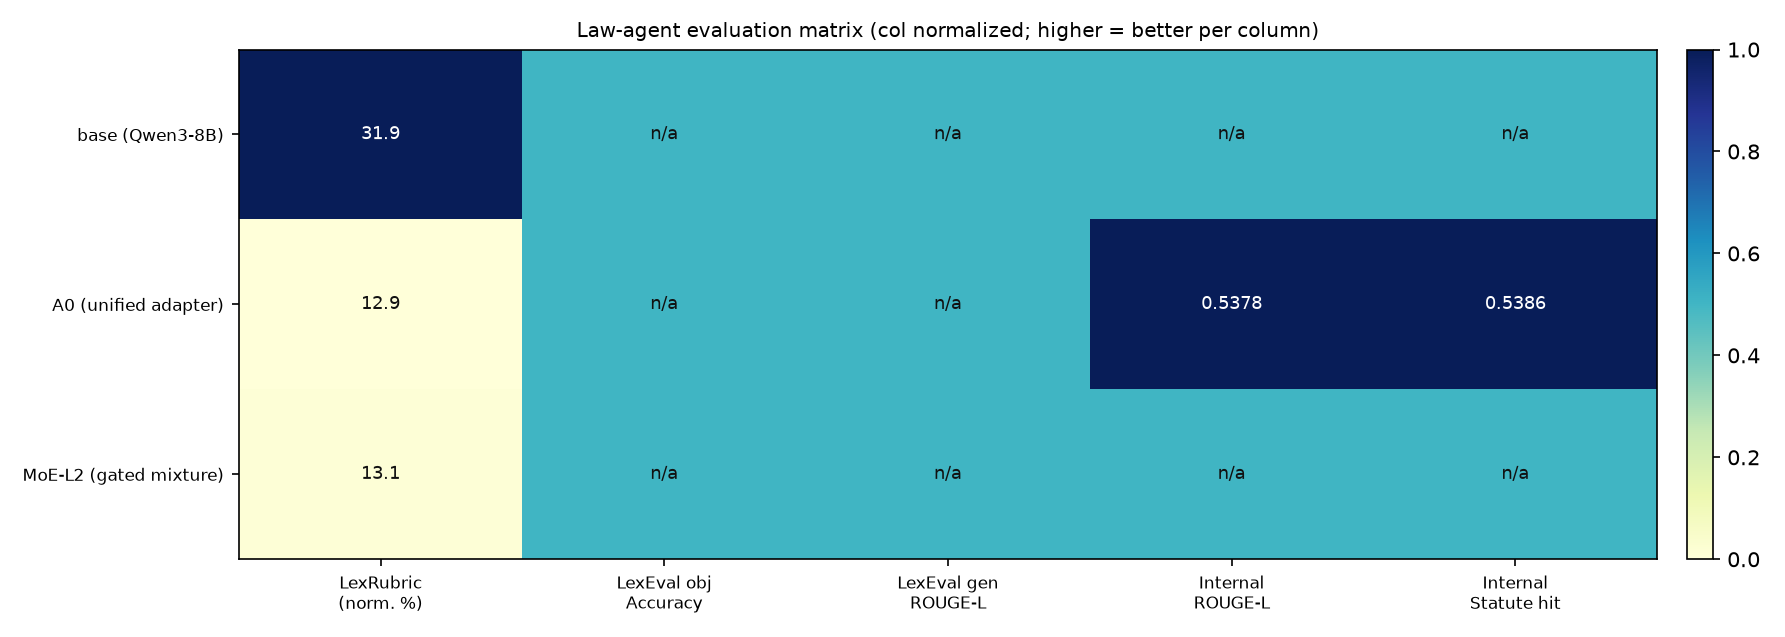
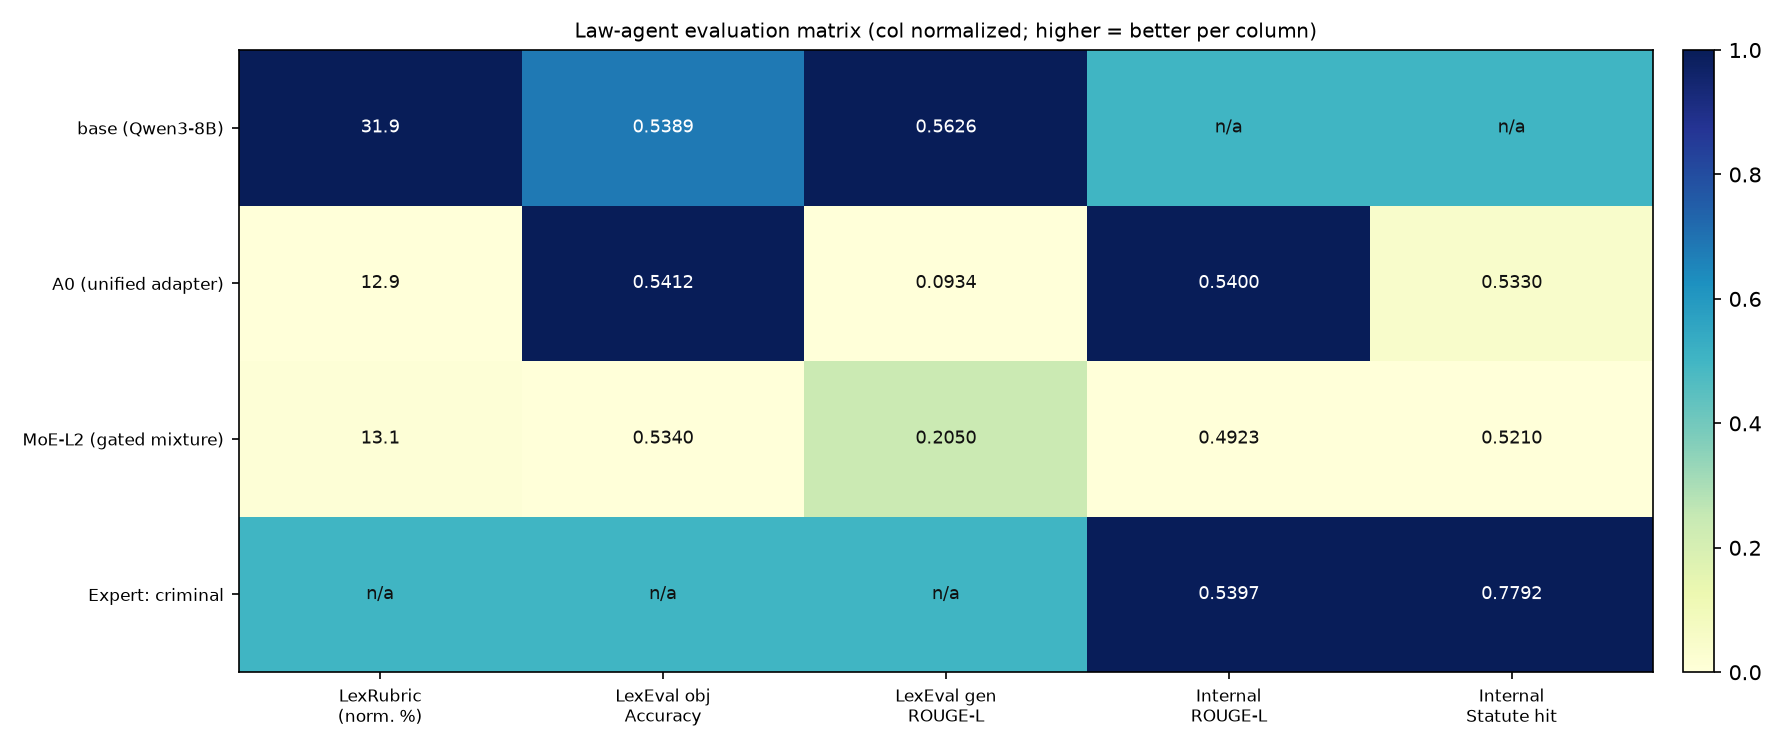
Backfill final eval results (OVERNIGHT_DONE): base obj 0.5389 / gen 0.5626; refresh matrix + figure

diff --git a/docs/eval/RESULTS_MATRIX.md b/docs/eval/RESULTS_MATRIX.md
@@ -2,14 +2,15 @@
 
 | 系统 | LexRubric (归一化 %) | LexEval 客观 Acc | LexEval 生成 ROUGE-L | 内部集 ROUGE-L | 内部集法条命中 | 已生成答案 (rubric/eval/internal) |
 |---|---:|---:|---:|---:|---:|---|
-| base (Qwen3-8B, 无微调) | 31.91 | — | — | — | — | 649 / 14150 / 0 |
-| A0 (统一适配器) | 12.90 | 0.5412 | 0.0934 | 0.5378 | 0.5386 | 0 / 0 / 1000 |
-| MoE-L2 (L2 门控混合) | 13.10 | 0.5340 | 0.2050 | — | — | 649 / 14150 / 1000 |
+| base (Qwen3-8B, 无微调) | 31.91 | 0.5389 | 0.5626 | — | — | 649 / 14150 / 0 |
+| A0 (统一适配器) | 12.90 | 0.5412 | 0.0934 | 0.5400 | 0.5330 | 0 / 0 / 1000 |
+| MoE-L2 (L2 门控混合) | 13.10 | 0.5340 | 0.2050 | 0.4923 | 0.5210 | 649 / 14150 / 1000 |
+| 专家: criminal | — | — | — | 0.5397 | 0.7792 | 0 / 0 / 384 |
 
 > LexRubric 归一化 % = mean_total / max_score × 100（逐 case 平均）；LexEval 客观 Acc 为 exact_match；ROUGE-L 为字符级 LCS f，cap=800。
 
 ## 缺失项
 
-- `base`：缺 outputs/score/lexeval_base.json
 - `base`：缺 outputs/score/internal_base.json
-- `moe_L2`：缺 outputs/score/internal_moe_L2.json
+- `criminal`：缺 outputs/score/lexeval_criminal.json
+- `criminal`：缺 outputs/judge/lexrubric/criminal/SUMMARY.json

diff --git a/README.md b/README.md
@@ -1108,9 +1108,9 @@ LoRA 增量同样必须保持 fp32 加进底座输出（bf16+fp32 提升，与 p
 
 | 系统 | LexRubric (归一化 %) | LexEval 客观 Acc | LexEval 生成 ROUGE-L | 内部集 ROUGE-L | 内部集法条命中 | 已生成答案 (rubric/eval/internal) |
 |---|---:|---:|---:|---:|---:|---|
-| base (Qwen3-8B, 无微调) | 31.91 | — | — | — | — | 649 / 14150 / 0 |
-| A0 (统一适配器) | 12.90 | 0.5412 | 0.0934 | 0.5378 | 0.5386 | 0 / 0 / 1000 |
-| MoE-L2 (L2 门控混合) | 13.10 | 0.5340 | 0.2050 | — | — | 649 / 14150 / 1000 |
+| base (Qwen3-8B, 无微调) | 31.91 | 0.5389 | 0.5626 | — | — | 649 / 14150 / 0 |
+| A0 (统一适配器) | 12.90 | 0.5412 | 0.0934 | 0.5400 | 0.5330 | 0 / 0 / 1000 |
+| MoE-L2 (L2 门控混合) | 13.10 | 0.5340 | 0.2050 | 0.4923 | 0.5210 | 649 / 14150 / 1000 |
 
 > 生成口径（全系统统一）：LexEval 客观题 cap=256 / LexEval 生成题 cap=1536 / LexRubric cap=1536 / 内部验证集 cap=1024；
 > 判分 MiniMax-M3（`configs/judge.yaml`）；完整机读数据见 `docs/eval/RESULTS_MATRIX.json`，图见 `docs/figures/`。
